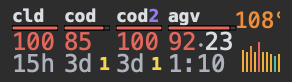
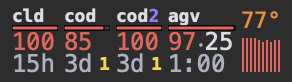
Bust GitHub raw image cache on README screenshot update

Changed region(s): [[0.7397, 0.122, 0.9863, 0.878], [0.6781, 0.6585, 0.7397, 0.9024], [0.6164, 0.3902, 0.6781, 0.6098]]

diff --git a/README.md b/README.md
@@ -3,7 +3,7 @@
 Your AI subscription limits in the macOS menu bar. One strip, one block per account.
 
 <p align="center">
-  <img src="docs/menubar-accounts.png" alt="menu bar: claude (cld) · codex (cod) · codex (cod2) · gemini (agv) · CPU temp + load graph" width="350">
+  <img src="docs/menubar-accounts.png?v=1793544828" alt="menu bar: claude (cld) · codex (cod) · codex (cod2) · gemini (agv) · CPU temp + load graph" width="350">
 </p>
 
 Each block: **% used** (5-hour · weekly, or just weekly) and **time until reset**
